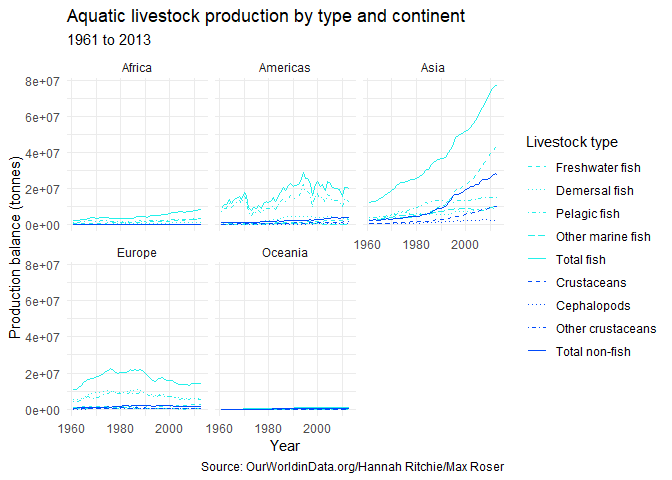
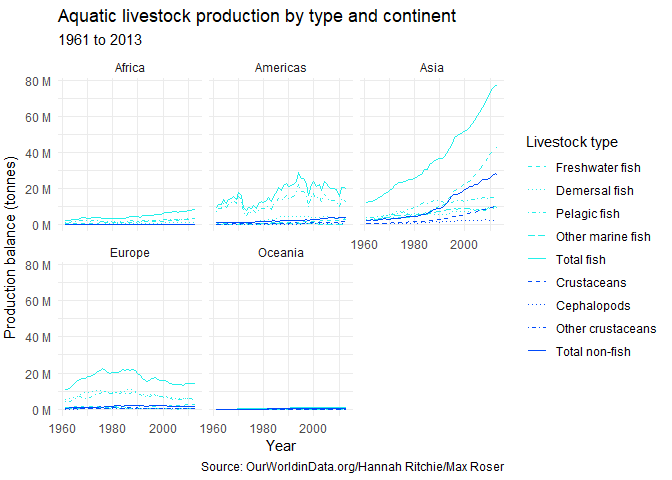
Neaten y-axis labels on main plot

diff --git a/fisheries.md b/fisheries.md
@@ -5,6 +5,7 @@ Alex Homer
 
 ``` r
 library(tidyverse)
+library(scales)
 #This document also requires the `emo` package, for emoji.  To install it if
 #necessary, make sure `devtools` is installed, then run
 # devtools::install_github("hadley/emo")
@@ -239,6 +240,8 @@ able to deal with such detailed requirements via any automatic functions
 [2], so we’re just going to have to specify our colours and line types
 manually.
 
+At the same time, we’ll make the scale on the *y*-axis look a bit nicer.
+
 ``` r
 production_continents <- production_with_totals %>%
   filter(entity %in% continents) 
@@ -277,6 +280,7 @@ production_continents %>%
   ) +
   geom_line() +
   facet_wrap(~entity) +
+  scale_y_continuous(labels = label_number(scale = 1e-6, suffix = " M")) +
   scale_colour_manual(
     values = c(
       "Freshwater fish" = fishcol,
@@ -315,7 +319,8 @@ production_continents %>%
       max(production_continents$yr)),
     caption = "Source: OurWorldinData.org/Hannah Ritchie/Max Roser"
   ) +
-  theme_minimal()
+  theme_minimal() +
+  theme(axis.title.y = element_text(vjust = 2.5)) #Nudge y label to the left
 ```
 
 ![](fisheries_files/figure-gfm/graph-with-totals-manual-1.png)<!-- -->
